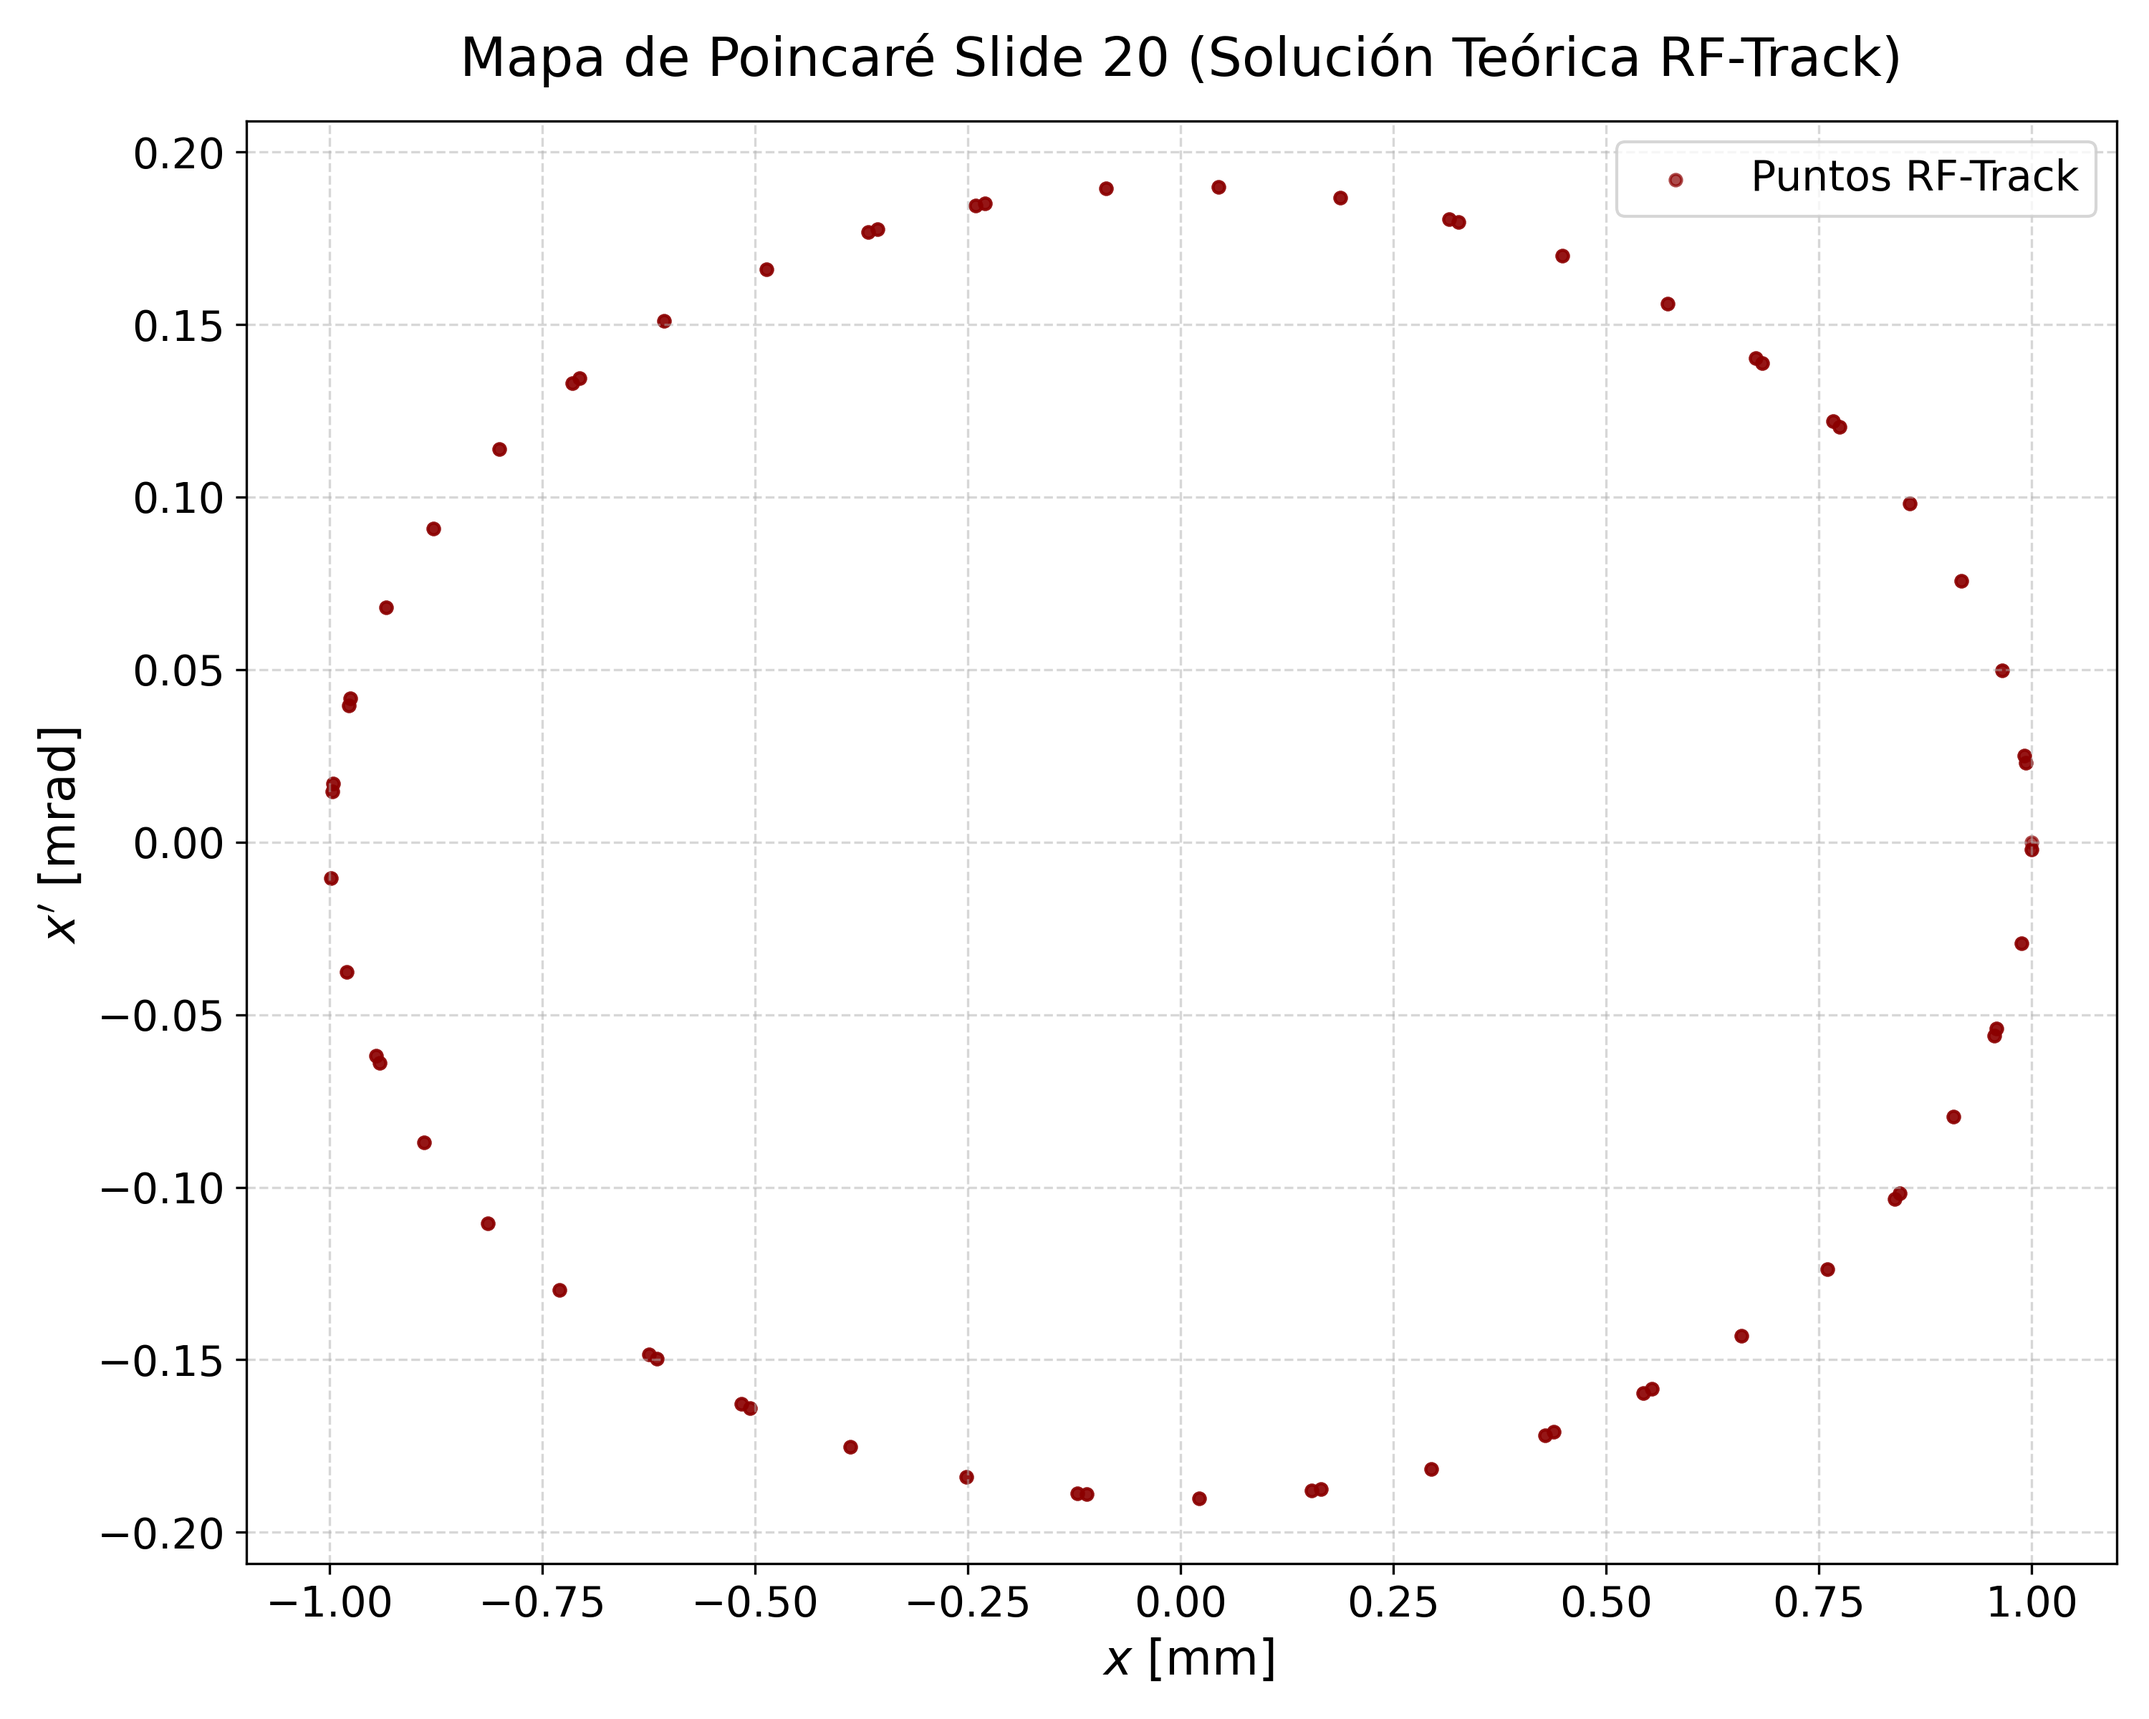
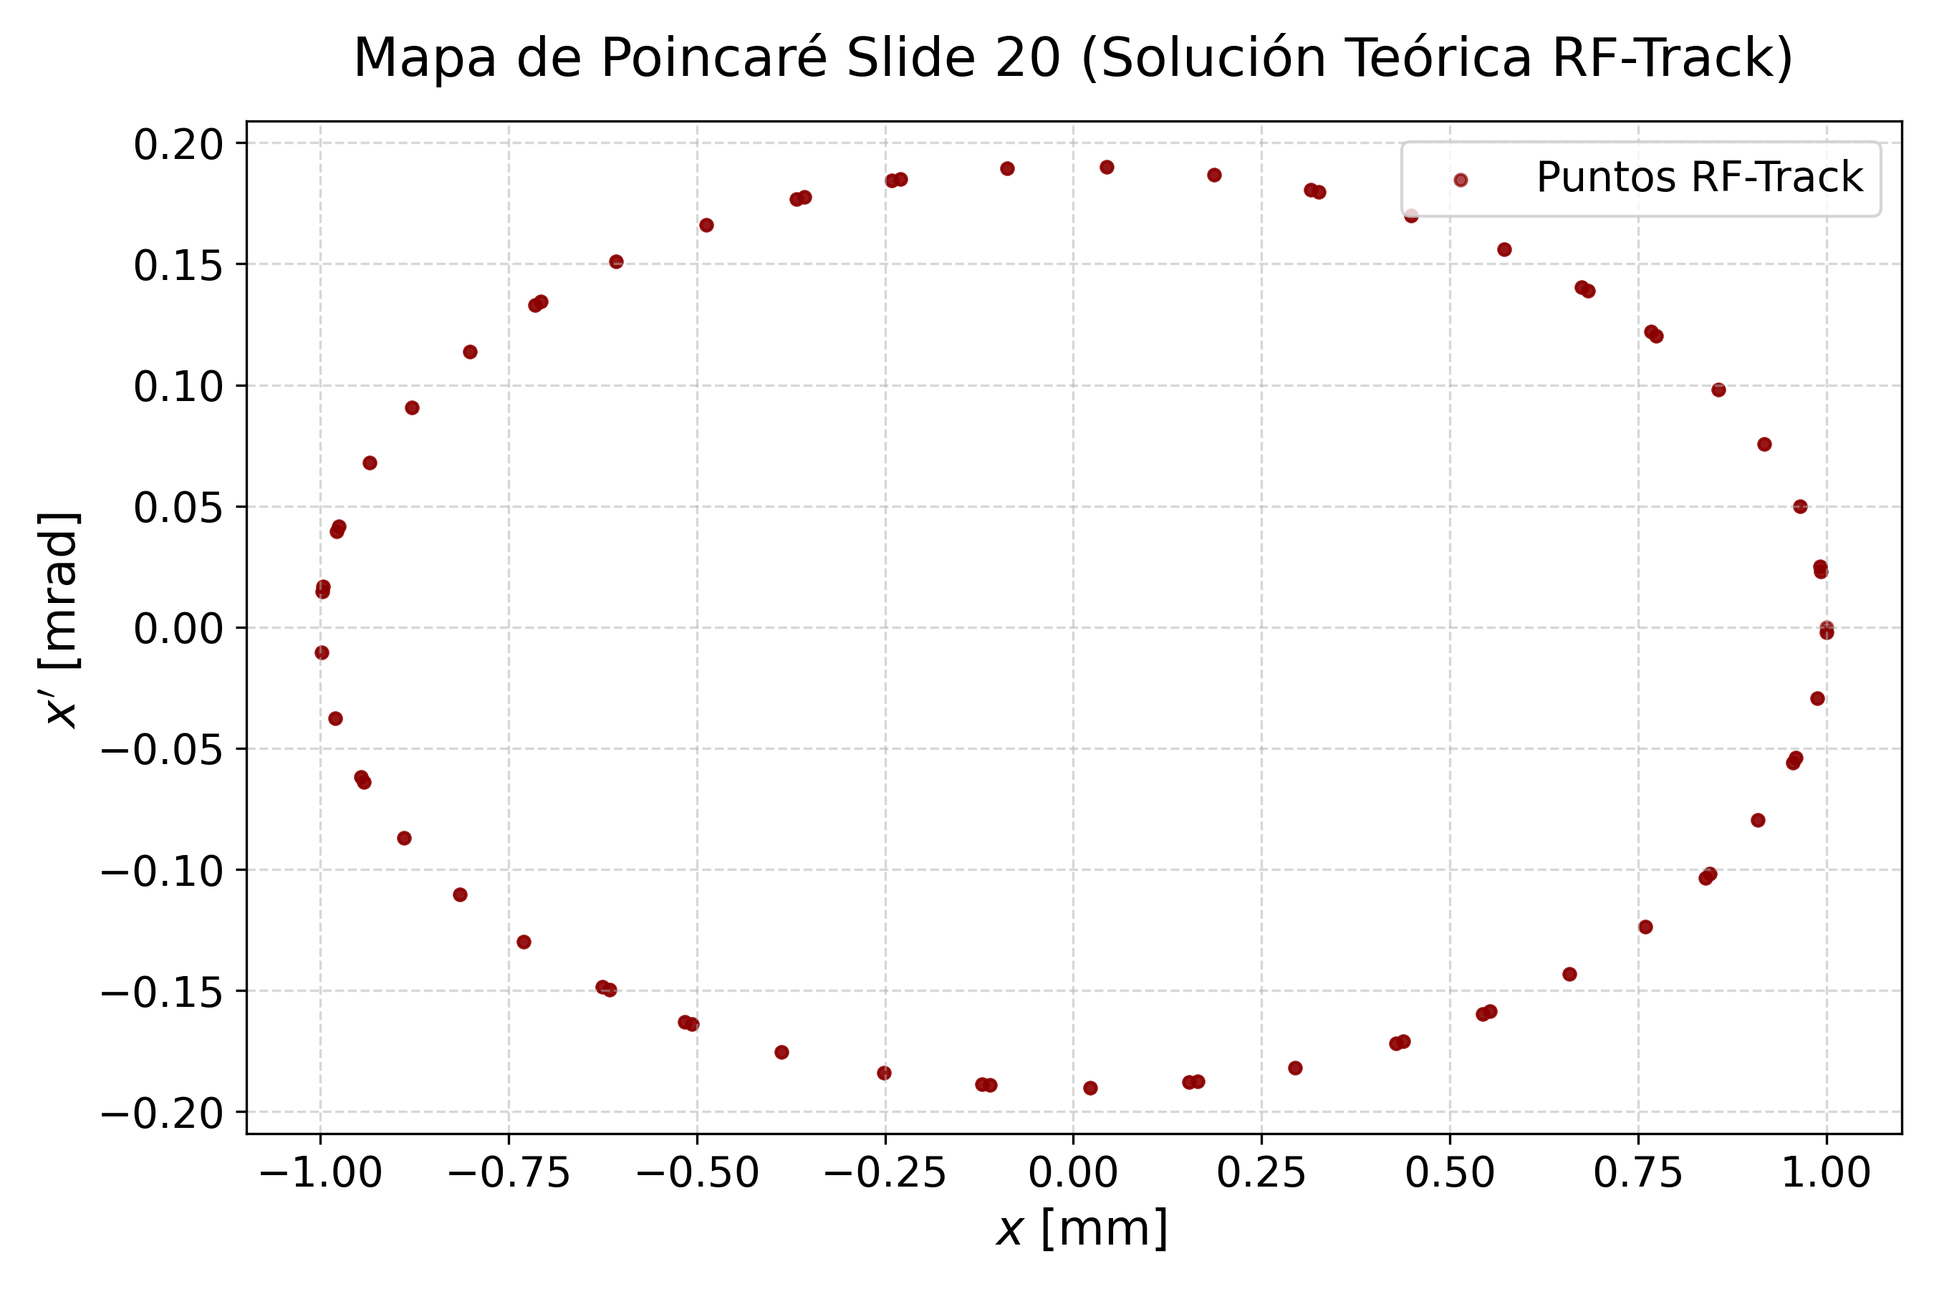
últimoms cambios

diff --git a/Code/MAIN/HILLS/main.py b/Code/MAIN/HILLS/main.py
@@ -80,9 +80,9 @@ modelo2 = hills_lineal_nonhom(k_func = lambda s: k20(s,p), inhomfunc= lambda s:i
 
 x0s= np.linspace(0,5e-3,3)
 
-# plot_poincare1(modelo1, x0s, s_vector1,ds,p.Lc, "Poincaré Hills Lineal Homogeneo.png",titulo= "Mapa de Poinca´re: FODO only quads")
-# plot_poincare1(modelo2,x0s, s_vector2, ds, p.Lc2, "Poincaré Hills Lineal No HOmogeneo.png", titulo= "Mapa de Poincaré: FODO quads + BEND + offmomentum " )
-# plot_poincare1(modelo3, x0s,s_vector2, ds, Lc2,"Poincaré Hills No Lineal.png", titulo=  "Mapa de Poinaré: quads+BEND + off-momentum + sextupoles")
+# plot_poincare1(modelo1, [x0], s_vector1,ds,p.Lc, "Poincaré Hills Lineal Homogeneo.png",titulo= "Mapa de Poinca´re Slide 19 Rk4")
+plot_poincare1(modelo2, [x0], s_vector2, ds, p.Lc2, "Poincaré Hills Lineal Slide20.png", titulo= "Mapa de Poincaré Slide 20 RK4")
+# plot_poincare1(modelo3, x0s,s_vector2, ds, p.Lc2,"Poincaré Hills No Lineal.png", titulo=  "Mapa de Poinaré: quads+BEND + off-momentum + sextupoles")
 
 
 #Mapa de Poincaré para distintos valores de delta usando tu función del módulo
@@ -192,7 +192,7 @@ def actδ(nuevo_delta):
 # plt.figure(figsize=(12,5))
 
 # #esto es la numérica, la del rk4
-# plt.plot(s_vector1, y1[0, :], label='Numérica RK4 (Continua)', color='lightgray', linewidth=2)
+# plt.plot(s_vector1, y1[0, :], label='Numérica RK4 (\'Continua\')', color='lightgray', linewidth=2)
 
 # # Dibujamos los puntos 'discretos'(por tener un paso mucho más grueso) de la solución teórica
 # plt.plot(s_discret, y_thin[0, :], 'ro', markersize=4, label='Teórica Thin-Lens')

diff --git a/Code/MAIN/HILLS/Poincaré.py b/Code/MAIN/HILLS/Poincaré.py
@@ -3,7 +3,7 @@ import matplotlib.pyplot as plt
 from RK import rk4
 from plotting import save_figure
 
-def plot_poincare1(modeloEDO, x0_valores, s_vector, ds, periodo, apertura,filename, titulo="Mapa de Poincaré"):
+def plot_poincare1(modeloEDO, x0_valores, s_vector, ds, periodo, filename, titulo="Mapa de Poincaré"):
     
     """
     Crea y guarda un mapa de Poincaré para múltiples condiciones iniciales
@@ -17,8 +17,8 @@ def plot_poincare1(modeloEDO, x0_valores, s_vector, ds, periodo, apertura,filena
     """
     plt.figure(figsize=(9, 6))
     plt.title(titulo)
-    plt.xlabel("x")
-    plt.ylabel("x' ")
+    plt.xlabel("$x$")
+    plt.ylabel("$x'$ ")
 
     # Se calculan los índices de Poincaré, son los índices en el svector correspondientes a s= n*L, o múltiplos enteros de L (L, el periodo y longitud de la celda)
     pasosXperiodo = int(round(periodo/ ds))
@@ -34,10 +34,9 @@ def plot_poincare1(modeloEDO, x0_valores, s_vector, ds, periodo, apertura,filena
         x_p =y[0, indices_poincare]
         xp_p = y[1,indices_poincare]
         
-        plt.scatter(x_p, xp_p, s=1.5, alpha =0.7, label=f"x_0 = {x0} mm")
+        plt.scatter(x_p, xp_p, s=1.5, alpha =0.7, label=f"x_0 = {x0} m")
     
-    plt.axvline(x= apertura, color='red',linestyle= '--',linewidth=2.5, label='Apertura Física')
-    plt.axvline(x= -apertura, color='red', linestyle= '--' ,linewidth=2.5)
+
     plt.gca().set_aspect('auto') 
     plt.grid(True, alpha=0.3, linestyle='--')
     plt.legend(loc='upper right', fontsize=10)

diff --git a/Code/MAIN/HILLS/Slide20validation.py b/Code/MAIN/HILLS/Slide20validation.py
@@ -62,7 +62,7 @@ def plot_poincareTHEO(archivo_txt, filename="RFTrack_Poincare.png"):
     x_mm = data[:, 0]
     xp_mrad = data[:, 1]
         
-    plt.figure(figsize=(10, 8))
+    plt.figure(figsize=(9, 6))
     plt.title("Mapa de Poincaré Slide 20 (Solución Teórica RF-Track)", fontsize=18, pad=15)
     
     plt.scatter(x_mm, xp_mrad, s=15, color='darkred', alpha=0.7, label='Puntos RF-Track')
